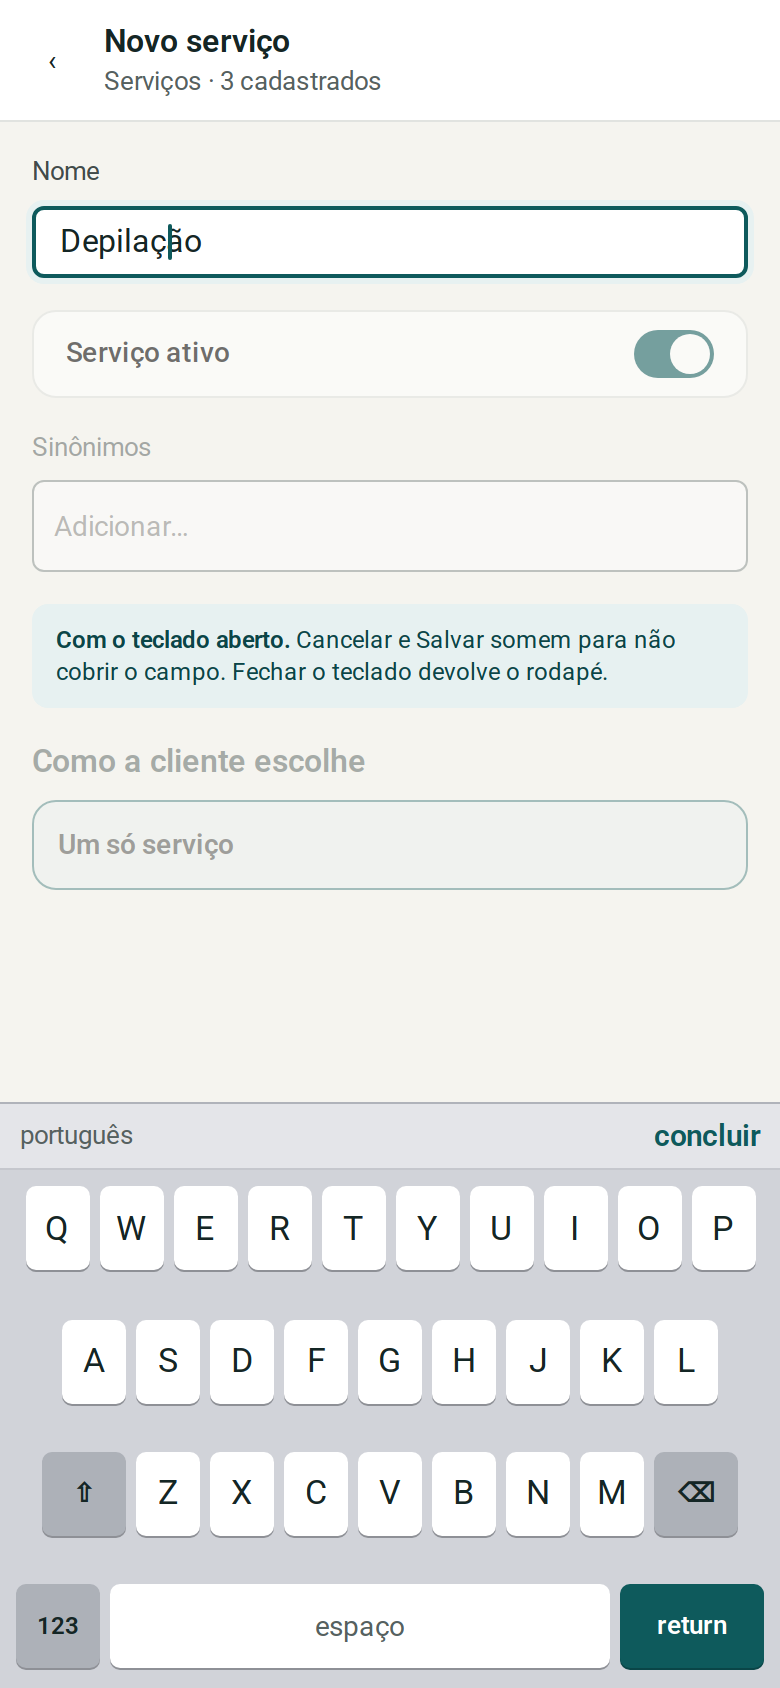
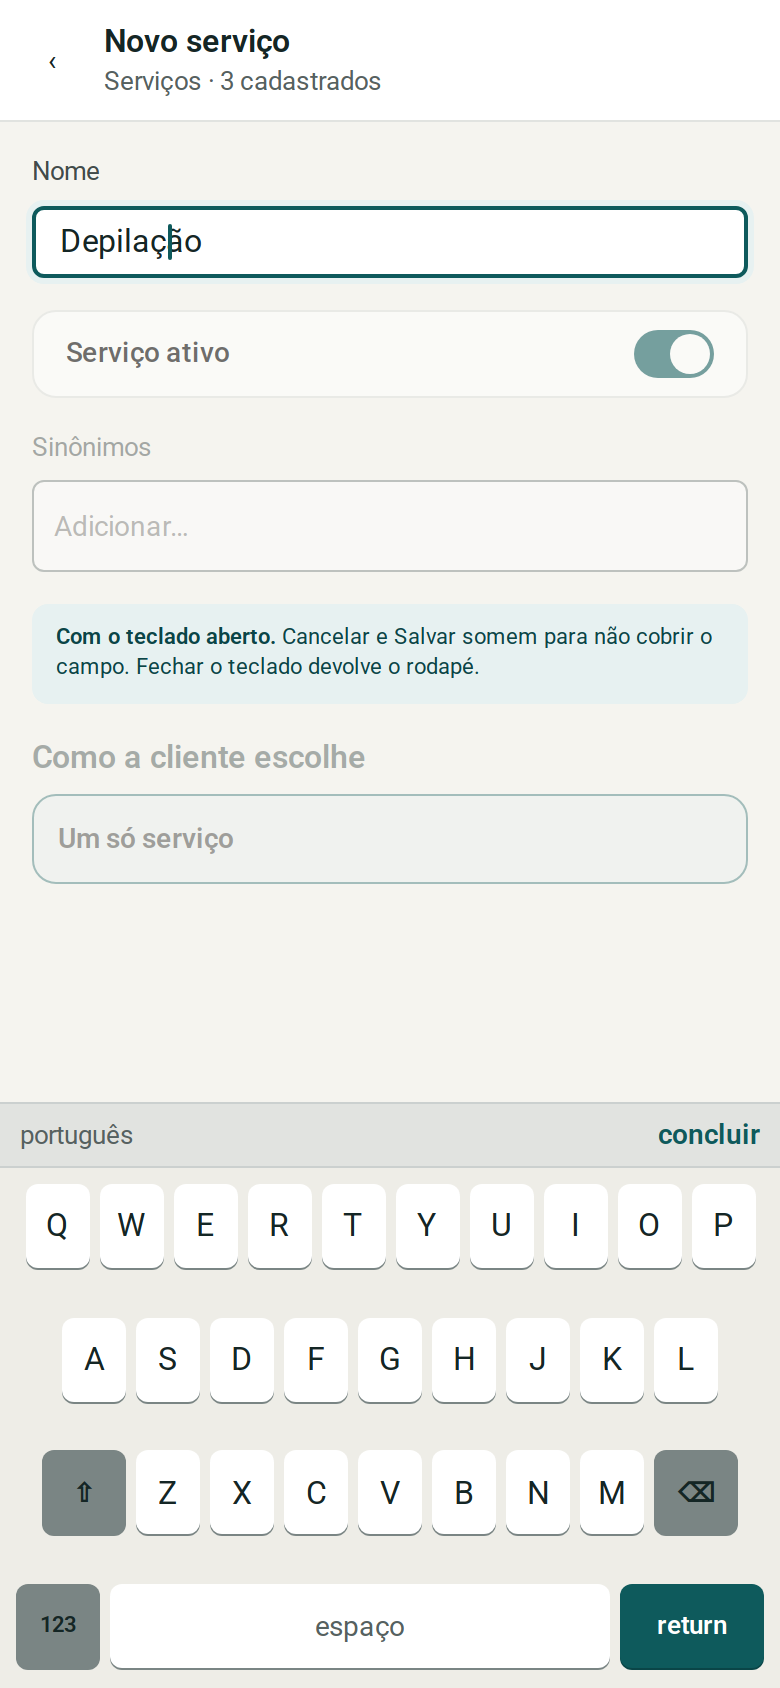
fix(design): map M-64 keyboard chrome to DEC-041 tokens
check_mocks failed on ServicoTeclado: iOS-like greys/fonts/radii were
outside tokens.json. Remap to sunken/border/control/disabled + 11/14/16
and radius.sm so check:design passes.

diff --git a/docs/design/mobile/ServicoTeclado.dc.html b/docs/design/mobile/ServicoTeclado.dc.html
@@ -36,7 +36,7 @@ button:focus-visible,a:focus-visible,select:focus-visible,input:focus-visible{ou
 <label style="display: flex; flex-direction: column; gap: 8px; font-size: 13px; color: #424B4A">Nome
 <span style="position: relative; display: block">
 <input type="text" value="Depilação" aria-label="Nome" style="width: 100%; height: 36px; box-sizing: border-box; padding: 0 12px; border: 2px solid #0E5A5C; border-radius: 6px; font-size: 16px; color: #142625; background: #FFFFFF; box-shadow: 0 0 0 3px #E7F1F1">
-<span aria-hidden="true" style="position: absolute; left: calc(12px + 8ch); top: 50%; transform: translateY(-50%); width: 2px; height: 18px; background: #0E5A5C; border-radius: 1px"></span>
+<span aria-hidden="true" style="position: absolute; left: calc(12px + 8ch); top: 50%; transform: translateY(-50%); width: 2px; height: 18px; background: #0E5A5C; border-radius: 6px"></span>
 </span>
 </label>
 
@@ -47,7 +47,7 @@ button:focus-visible,a:focus-visible,select:focus-visible,input:focus-visible{ou
 <input type="text" placeholder="Adicionar…" aria-hidden="true" tabindex="-1" style="flex: 1; min-width: 6rem; height: 28px; border: 0; box-shadow: none; outline: none; background: transparent; font-size: 14px; color: #142625"></div>
 </div>
 
-<p style="margin: 0; font-size: 12px; color: #566160; background: #E7F1F1; color: #0A4547; padding: 10px 12px; border-radius: 8px"><strong>Com o teclado aberto.</strong> Cancelar e Salvar somem para não cobrir o campo. Fechar o teclado devolve o rodapé.</p>
+<p style="margin: 0; font-size: 11px; color: #566160; background: #E7F1F1; color: #0A4547; padding: 10px 12px; border-radius: 8px"><strong>Com o teclado aberto.</strong> Cancelar e Salvar somem para não cobrir o campo. Fechar o teclado devolve o rodapé.</p>
 
 <section aria-hidden="true" style="display: flex; flex-direction: column; gap: 8px; opacity: 0.35"><h2 style="margin: 0; font-size: 16px; font-weight: 600">Como a cliente escolhe</h2>
 <button type="button" tabindex="-1" style="min-height: 44px; padding: 12px; border-radius: 12px; text-align: left; border: 1px solid #0E5A5C; background: #E7F1F1"><strong style="font-weight: 600">Um só serviço</strong></button>
@@ -56,50 +56,50 @@ button:focus-visible,a:focus-visible,select:focus-visible,input:focus-visible{ou
 
 <!-- Rodapé sticky oculto enquanto o teclado está aberto (Opção A). -->
 
-<div aria-label="Teclado virtual" style="flex: none; height: 292px; background: #D1D3D9; border-top: 1px solid #B0B3BA; display: flex; flex-direction: column; font-family: Roboto, system-ui, sans-serif; user-select: none">
-<div style="display: flex; align-items: center; justify-content: space-between; padding: 6px 10px; background: #E4E5E9; border-bottom: 1px solid #C5C7CD">
+<div aria-label="Teclado virtual" style="flex: none; height: 292px; background: #EEEDE7; border-top: 1px solid #CBD0CF; display: flex; flex-direction: column; font-family: Roboto, system-ui, sans-serif; user-select: none">
+<div style="display: flex; align-items: center; justify-content: space-between; padding: 6px 10px; background: #E1E3E0; border-bottom: 1px solid #CBD0CF">
 <span style="font-size: 13px; color: #566160">português</span>
-<span style="font-size: 15px; font-weight: 600; color: #0E5A5C">concluir</span>
+<span style="font-size: 14px; font-weight: 600; color: #0E5A5C">concluir</span>
 </div>
 <div style="flex: 1; padding: 8px 4px 10px; display: flex; flex-direction: column; gap: 8px; justify-content: space-between">
 <div style="display: flex; gap: 5px; justify-content: center">
-<span style="width: 32px; height: 42px; border-radius: 5px; background: #FFFFFF; box-shadow: 0 1px 0 #8E9096; display: flex; align-items: center; justify-content: center; font-size: 17px; color: #142625">Q</span>
-<span style="width: 32px; height: 42px; border-radius: 5px; background: #FFFFFF; box-shadow: 0 1px 0 #8E9096; display: flex; align-items: center; justify-content: center; font-size: 17px; color: #142625">W</span>
-<span style="width: 32px; height: 42px; border-radius: 5px; background: #FFFFFF; box-shadow: 0 1px 0 #8E9096; display: flex; align-items: center; justify-content: center; font-size: 17px; color: #142625">E</span>
-<span style="width: 32px; height: 42px; border-radius: 5px; background: #FFFFFF; box-shadow: 0 1px 0 #8E9096; display: flex; align-items: center; justify-content: center; font-size: 17px; color: #142625">R</span>
-<span style="width: 32px; height: 42px; border-radius: 5px; background: #FFFFFF; box-shadow: 0 1px 0 #8E9096; display: flex; align-items: center; justify-content: center; font-size: 17px; color: #142625">T</span>
-<span style="width: 32px; height: 42px; border-radius: 5px; background: #FFFFFF; box-shadow: 0 1px 0 #8E9096; display: flex; align-items: center; justify-content: center; font-size: 17px; color: #142625">Y</span>
-<span style="width: 32px; height: 42px; border-radius: 5px; background: #FFFFFF; box-shadow: 0 1px 0 #8E9096; display: flex; align-items: center; justify-content: center; font-size: 17px; color: #142625">U</span>
-<span style="width: 32px; height: 42px; border-radius: 5px; background: #FFFFFF; box-shadow: 0 1px 0 #8E9096; display: flex; align-items: center; justify-content: center; font-size: 17px; color: #142625">I</span>
-<span style="width: 32px; height: 42px; border-radius: 5px; background: #FFFFFF; box-shadow: 0 1px 0 #8E9096; display: flex; align-items: center; justify-content: center; font-size: 17px; color: #142625">O</span>
-<span style="width: 32px; height: 42px; border-radius: 5px; background: #FFFFFF; box-shadow: 0 1px 0 #8E9096; display: flex; align-items: center; justify-content: center; font-size: 17px; color: #142625">P</span>
+<span style="width: 32px; height: 42px; border-radius: 6px; background: #FFFFFF; box-shadow: 0 1px 0 #7A8584; display: flex; align-items: center; justify-content: center; font-size: 16px; color: #142625">Q</span>
+<span style="width: 32px; height: 42px; border-radius: 6px; background: #FFFFFF; box-shadow: 0 1px 0 #7A8584; display: flex; align-items: center; justify-content: center; font-size: 16px; color: #142625">W</span>
+<span style="width: 32px; height: 42px; border-radius: 6px; background: #FFFFFF; box-shadow: 0 1px 0 #7A8584; display: flex; align-items: center; justify-content: center; font-size: 16px; color: #142625">E</span>
+<span style="width: 32px; height: 42px; border-radius: 6px; background: #FFFFFF; box-shadow: 0 1px 0 #7A8584; display: flex; align-items: center; justify-content: center; font-size: 16px; color: #142625">R</span>
+<span style="width: 32px; height: 42px; border-radius: 6px; background: #FFFFFF; box-shadow: 0 1px 0 #7A8584; display: flex; align-items: center; justify-content: center; font-size: 16px; color: #142625">T</span>
+<span style="width: 32px; height: 42px; border-radius: 6px; background: #FFFFFF; box-shadow: 0 1px 0 #7A8584; display: flex; align-items: center; justify-content: center; font-size: 16px; color: #142625">Y</span>
+<span style="width: 32px; height: 42px; border-radius: 6px; background: #FFFFFF; box-shadow: 0 1px 0 #7A8584; display: flex; align-items: center; justify-content: center; font-size: 16px; color: #142625">U</span>
+<span style="width: 32px; height: 42px; border-radius: 6px; background: #FFFFFF; box-shadow: 0 1px 0 #7A8584; display: flex; align-items: center; justify-content: center; font-size: 16px; color: #142625">I</span>
+<span style="width: 32px; height: 42px; border-radius: 6px; background: #FFFFFF; box-shadow: 0 1px 0 #7A8584; display: flex; align-items: center; justify-content: center; font-size: 16px; color: #142625">O</span>
+<span style="width: 32px; height: 42px; border-radius: 6px; background: #FFFFFF; box-shadow: 0 1px 0 #7A8584; display: flex; align-items: center; justify-content: center; font-size: 16px; color: #142625">P</span>
 </div>
 <div style="display: flex; gap: 5px; justify-content: center; padding: 0 16px">
-<span style="width: 32px; height: 42px; border-radius: 5px; background: #FFFFFF; box-shadow: 0 1px 0 #8E9096; display: flex; align-items: center; justify-content: center; font-size: 17px; color: #142625">A</span>
-<span style="width: 32px; height: 42px; border-radius: 5px; background: #FFFFFF; box-shadow: 0 1px 0 #8E9096; display: flex; align-items: center; justify-content: center; font-size: 17px; color: #142625">S</span>
-<span style="width: 32px; height: 42px; border-radius: 5px; background: #FFFFFF; box-shadow: 0 1px 0 #8E9096; display: flex; align-items: center; justify-content: center; font-size: 17px; color: #142625">D</span>
-<span style="width: 32px; height: 42px; border-radius: 5px; background: #FFFFFF; box-shadow: 0 1px 0 #8E9096; display: flex; align-items: center; justify-content: center; font-size: 17px; color: #142625">F</span>
-<span style="width: 32px; height: 42px; border-radius: 5px; background: #FFFFFF; box-shadow: 0 1px 0 #8E9096; display: flex; align-items: center; justify-content: center; font-size: 17px; color: #142625">G</span>
-<span style="width: 32px; height: 42px; border-radius: 5px; background: #FFFFFF; box-shadow: 0 1px 0 #8E9096; display: flex; align-items: center; justify-content: center; font-size: 17px; color: #142625">H</span>
-<span style="width: 32px; height: 42px; border-radius: 5px; background: #FFFFFF; box-shadow: 0 1px 0 #8E9096; display: flex; align-items: center; justify-content: center; font-size: 17px; color: #142625">J</span>
-<span style="width: 32px; height: 42px; border-radius: 5px; background: #FFFFFF; box-shadow: 0 1px 0 #8E9096; display: flex; align-items: center; justify-content: center; font-size: 17px; color: #142625">K</span>
-<span style="width: 32px; height: 42px; border-radius: 5px; background: #FFFFFF; box-shadow: 0 1px 0 #8E9096; display: flex; align-items: center; justify-content: center; font-size: 17px; color: #142625">L</span>
+<span style="width: 32px; height: 42px; border-radius: 6px; background: #FFFFFF; box-shadow: 0 1px 0 #7A8584; display: flex; align-items: center; justify-content: center; font-size: 16px; color: #142625">A</span>
+<span style="width: 32px; height: 42px; border-radius: 6px; background: #FFFFFF; box-shadow: 0 1px 0 #7A8584; display: flex; align-items: center; justify-content: center; font-size: 16px; color: #142625">S</span>
+<span style="width: 32px; height: 42px; border-radius: 6px; background: #FFFFFF; box-shadow: 0 1px 0 #7A8584; display: flex; align-items: center; justify-content: center; font-size: 16px; color: #142625">D</span>
+<span style="width: 32px; height: 42px; border-radius: 6px; background: #FFFFFF; box-shadow: 0 1px 0 #7A8584; display: flex; align-items: center; justify-content: center; font-size: 16px; color: #142625">F</span>
+<span style="width: 32px; height: 42px; border-radius: 6px; background: #FFFFFF; box-shadow: 0 1px 0 #7A8584; display: flex; align-items: center; justify-content: center; font-size: 16px; color: #142625">G</span>
+<span style="width: 32px; height: 42px; border-radius: 6px; background: #FFFFFF; box-shadow: 0 1px 0 #7A8584; display: flex; align-items: center; justify-content: center; font-size: 16px; color: #142625">H</span>
+<span style="width: 32px; height: 42px; border-radius: 6px; background: #FFFFFF; box-shadow: 0 1px 0 #7A8584; display: flex; align-items: center; justify-content: center; font-size: 16px; color: #142625">J</span>
+<span style="width: 32px; height: 42px; border-radius: 6px; background: #FFFFFF; box-shadow: 0 1px 0 #7A8584; display: flex; align-items: center; justify-content: center; font-size: 16px; color: #142625">K</span>
+<span style="width: 32px; height: 42px; border-radius: 6px; background: #FFFFFF; box-shadow: 0 1px 0 #7A8584; display: flex; align-items: center; justify-content: center; font-size: 16px; color: #142625">L</span>
 </div>
 <div style="display: flex; gap: 5px; justify-content: center">
-<span style="width: 42px; height: 42px; border-radius: 5px; background: #ADB1B8; box-shadow: 0 1px 0 #8E9096; display: flex; align-items: center; justify-content: center; font-size: 13px; color: #142625; font-weight: 600">⇧</span>
-<span style="width: 32px; height: 42px; border-radius: 5px; background: #FFFFFF; box-shadow: 0 1px 0 #8E9096; display: flex; align-items: center; justify-content: center; font-size: 17px; color: #142625">Z</span>
-<span style="width: 32px; height: 42px; border-radius: 5px; background: #FFFFFF; box-shadow: 0 1px 0 #8E9096; display: flex; align-items: center; justify-content: center; font-size: 17px; color: #142625">X</span>
-<span style="width: 32px; height: 42px; border-radius: 5px; background: #FFFFFF; box-shadow: 0 1px 0 #8E9096; display: flex; align-items: center; justify-content: center; font-size: 17px; color: #142625">C</span>
-<span style="width: 32px; height: 42px; border-radius: 5px; background: #FFFFFF; box-shadow: 0 1px 0 #8E9096; display: flex; align-items: center; justify-content: center; font-size: 17px; color: #142625">V</span>
-<span style="width: 32px; height: 42px; border-radius: 5px; background: #FFFFFF; box-shadow: 0 1px 0 #8E9096; display: flex; align-items: center; justify-content: center; font-size: 17px; color: #142625">B</span>
-<span style="width: 32px; height: 42px; border-radius: 5px; background: #FFFFFF; box-shadow: 0 1px 0 #8E9096; display: flex; align-items: center; justify-content: center; font-size: 17px; color: #142625">N</span>
-<span style="width: 32px; height: 42px; border-radius: 5px; background: #FFFFFF; box-shadow: 0 1px 0 #8E9096; display: flex; align-items: center; justify-content: center; font-size: 17px; color: #142625">M</span>
-<span style="width: 42px; height: 42px; border-radius: 5px; background: #ADB1B8; box-shadow: 0 1px 0 #8E9096; display: flex; align-items: center; justify-content: center; font-size: 13px; color: #142625; font-weight: 600">⌫</span>
+<span style="width: 42px; height: 42px; border-radius: 6px; background: #7A8584; box-shadow: 0 1px 0 #7A8584; display: flex; align-items: center; justify-content: center; font-size: 13px; color: #142625; font-weight: 600">⇧</span>
+<span style="width: 32px; height: 42px; border-radius: 6px; background: #FFFFFF; box-shadow: 0 1px 0 #7A8584; display: flex; align-items: center; justify-content: center; font-size: 16px; color: #142625">Z</span>
+<span style="width: 32px; height: 42px; border-radius: 6px; background: #FFFFFF; box-shadow: 0 1px 0 #7A8584; display: flex; align-items: center; justify-content: center; font-size: 16px; color: #142625">X</span>
+<span style="width: 32px; height: 42px; border-radius: 6px; background: #FFFFFF; box-shadow: 0 1px 0 #7A8584; display: flex; align-items: center; justify-content: center; font-size: 16px; color: #142625">C</span>
+<span style="width: 32px; height: 42px; border-radius: 6px; background: #FFFFFF; box-shadow: 0 1px 0 #7A8584; display: flex; align-items: center; justify-content: center; font-size: 16px; color: #142625">V</span>
+<span style="width: 32px; height: 42px; border-radius: 6px; background: #FFFFFF; box-shadow: 0 1px 0 #7A8584; display: flex; align-items: center; justify-content: center; font-size: 16px; color: #142625">B</span>
+<span style="width: 32px; height: 42px; border-radius: 6px; background: #FFFFFF; box-shadow: 0 1px 0 #7A8584; display: flex; align-items: center; justify-content: center; font-size: 16px; color: #142625">N</span>
+<span style="width: 32px; height: 42px; border-radius: 6px; background: #FFFFFF; box-shadow: 0 1px 0 #7A8584; display: flex; align-items: center; justify-content: center; font-size: 16px; color: #142625">M</span>
+<span style="width: 42px; height: 42px; border-radius: 6px; background: #7A8584; box-shadow: 0 1px 0 #7A8584; display: flex; align-items: center; justify-content: center; font-size: 13px; color: #142625; font-weight: 600">⌫</span>
 </div>
 <div style="display: flex; gap: 5px; justify-content: center; padding: 0 4px">
-<span style="width: 42px; height: 42px; border-radius: 5px; background: #ADB1B8; box-shadow: 0 1px 0 #8E9096; display: flex; align-items: center; justify-content: center; font-size: 12px; color: #142625; font-weight: 600">123</span>
-<span style="flex: 1; height: 42px; border-radius: 5px; background: #FFFFFF; box-shadow: 0 1px 0 #8E9096; display: flex; align-items: center; justify-content: center; font-size: 14px; color: #566160">espaço</span>
-<span style="width: 72px; height: 42px; border-radius: 5px; background: #0E5A5C; box-shadow: 0 1px 0 #0A4547; display: flex; align-items: center; justify-content: center; font-size: 13px; color: #FFFFFF; font-weight: 600">return</span>
+<span style="width: 42px; height: 42px; border-radius: 6px; background: #7A8584; box-shadow: 0 1px 0 #7A8584; display: flex; align-items: center; justify-content: center; font-size: 11px; color: #142625; font-weight: 600">123</span>
+<span style="flex: 1; height: 42px; border-radius: 6px; background: #FFFFFF; box-shadow: 0 1px 0 #7A8584; display: flex; align-items: center; justify-content: center; font-size: 14px; color: #566160">espaço</span>
+<span style="width: 72px; height: 42px; border-radius: 6px; background: #0E5A5C; box-shadow: 0 1px 0 #0A4547; display: flex; align-items: center; justify-content: center; font-size: 13px; color: #FFFFFF; font-weight: 600">return</span>
 </div>
 </div>
 </div>
